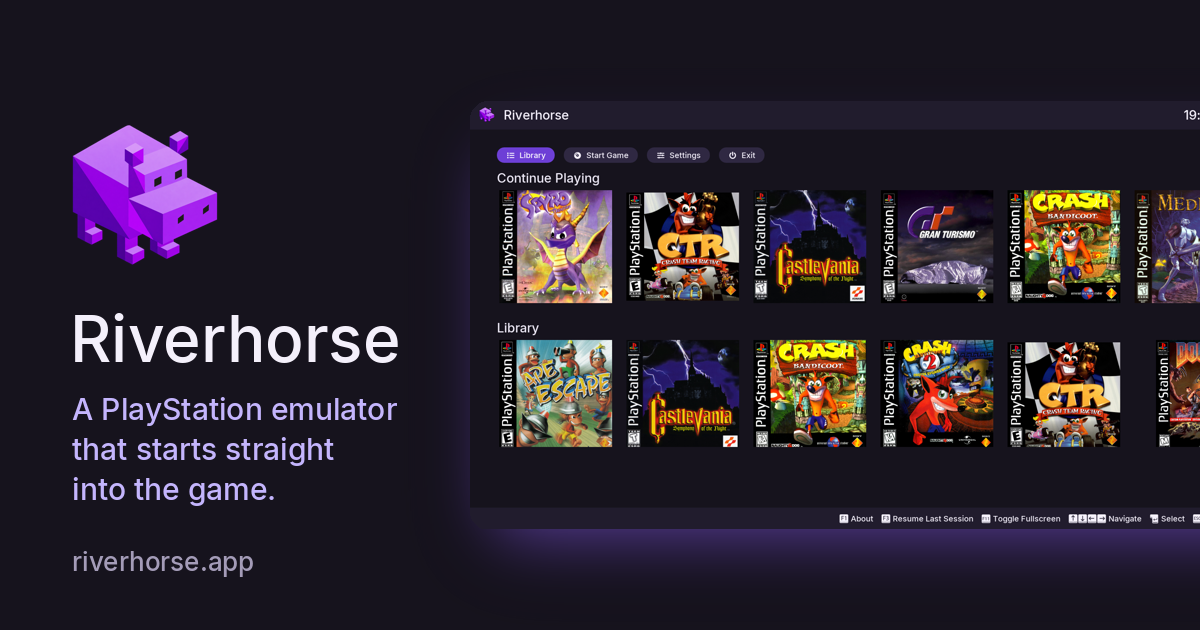
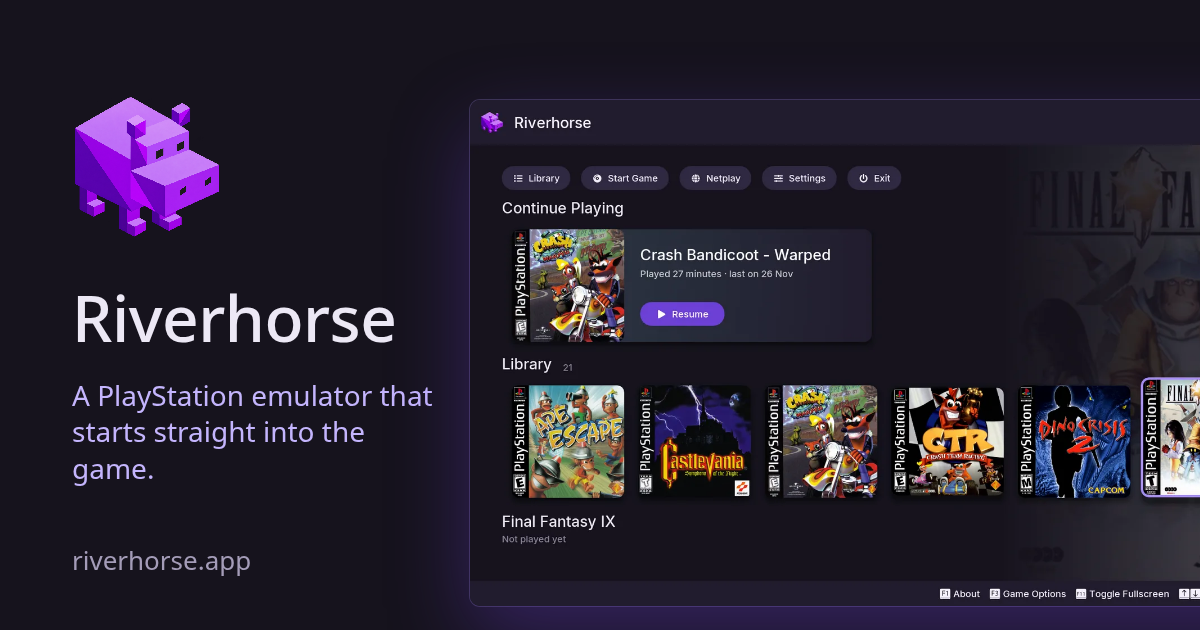
Website: download statistics, stat cards on the home page and a new link preview
A download statistics page lists GitHub downloads per platform and per
release, read live from GitHub when it opens. The home page shows the latest
version, the download count and the licence as cards; the version and count
come from GitHub too, so they change as soon as a release is published. The
link preview image uses the current Big Picture home screen.

diff --git a/site/src/lib/downloads.ts b/site/src/lib/downloads.ts
@@ -1,0 +1,89 @@
+export interface ReleaseAsset {
+	name: string;
+	download_count: number;
+}
+
+export interface Release {
+	tag_name: string;
+	published_at: string;
+	draft: boolean;
+	prerelease: boolean;
+	assets: ReleaseAsset[];
+}
+
+export const RELEASES_API = 'https://api.github.com/repos/thenotoriousfox/riverhorse/releases?per_page=100';
+
+const PLATFORMS: {name: string; matches: (file: string) => boolean}[] = [
+	{name: 'Linux (AppImage)', matches: file => file.endsWith('.AppImage')},
+	{name: 'Linux (Flatpak)', matches: file => file.endsWith('.flatpak')},
+	{name: 'Windows', matches: file => file.startsWith('riverhorse-windows-') && file.endsWith('-release.zip')},
+	{name: 'macOS', matches: file => file.startsWith('riverhorse-mac-')},
+	{name: 'RetroArch core', matches: file => file.startsWith('riverhorse_libretro-')},
+];
+
+export const PLATFORM_NAMES = PLATFORMS.map(platform => platform.name);
+
+export interface ReleaseDownloads {
+	tag: string;
+	date: string;
+	total: number;
+	byPlatform: number[];
+}
+
+export interface DownloadSummary {
+	total: number;
+	byPlatform: number[];
+	releases: ReleaseDownloads[];
+}
+
+export function summariseDownloads(releases: Release[]): DownloadSummary {
+	const rows = releases
+		.filter(release => !release.draft && !release.prerelease && /^v\d/.test(release.tag_name))
+		.sort((a, b) => b.published_at.localeCompare(a.published_at))
+		.map(release => {
+			const byPlatform = PLATFORMS.map(platform =>
+				release.assets.filter(asset => platform.matches(asset.name)).reduce((sum, asset) => sum + asset.download_count, 0));
+			return {
+				tag: release.tag_name,
+				date: release.published_at.slice(0, 10),
+				total: byPlatform.reduce((sum, count) => sum + count, 0),
+				byPlatform,
+			};
+		});
+
+	return {
+		total: rows.reduce((sum, row) => sum + row.total, 0),
+		byPlatform: PLATFORMS.map((_, index) => rows.reduce((sum, row) => sum + row.byPlatform[index], 0)),
+		releases: rows,
+	};
+}
+
+const number = (value: number) => value.toLocaleString('en');
+
+export function renderDownloads(summary: DownloadSummary): string {
+	const platformRows = PLATFORM_NAMES.map((name, index) => {
+		const count = summary.byPlatform[index];
+		const share = summary.total ? Math.round((count / summary.total) * 100) : 0;
+		return `<tr><td>${name}</td><td class="num">${number(count)}</td><td class="num">${share}%</td></tr>`;
+	}).join('');
+
+	const releaseRows = summary.releases.map(release =>
+		`<tr><td><a href="https://github.com/thenotoriousfox/riverhorse/releases/tag/${release.tag}">${release.tag}</a></td>`
+		+ `<td>${release.date}</td><td class="num"><strong>${number(release.total)}</strong></td>`
+		+ release.byPlatform.map(count => `<td class="num">${number(count)}</td>`).join('') + '</tr>').join('');
+
+	return `<p class="stat-total"><strong>${number(summary.total)}</strong> downloads across ${summary.releases.length} releases</p>`
+		+ `<h2>By platform</h2><table><thead><tr><th>Platform</th><th class="num">Downloads</th><th class="num">Share</th></tr></thead><tbody>${platformRows}</tbody></table>`
+		+ `<h2>By release</h2><table><thead><tr><th>Release</th><th>Date</th><th class="num">Total</th>`
+		+ PLATFORM_NAMES.map(name => `<th class="num">${name}</th>`).join('')
+		+ `</tr></thead><tbody>${releaseRows}</tbody></table>`;
+}
+
+export async function fetchDownloadSummary(): Promise<DownloadSummary | null> {
+	try {
+		const response = await fetch(RELEASES_API, {headers: {Accept: 'application/vnd.github+json'}});
+		return response.ok ? summariseDownloads(await response.json()) : null;
+	} catch {
+		return null;
+	}
+}

diff --git a/site/src/styles.css b/site/src/styles.css
@@ -320,3 +320,25 @@ footer p { margin: 0.4rem 0; }
   #games td:first-child { font-weight: 600; }
   #games tr[hidden] { display: none; }
 }
+
+.stat-total { font-size: 1.15rem; color: var(--muted); }
+.stat-total strong { font-size: 2.4rem; color: var(--text); margin-right: 0.4rem; }
+.num { text-align: right; font-variant-numeric: tabular-nums; }
+
+.stats { display: flex; justify-content: center; gap: 0.75rem; margin-top: 2rem; }
+.stat {
+  display: flex; flex-direction: column; align-items: center; gap: 0.15rem;
+  min-width: 11rem; padding: 0.9rem 1.4rem;
+  background: var(--surface); border: 1px solid var(--line); border-radius: 12px;
+  color: var(--muted); text-decoration: none; font-size: 0.9rem;
+  transition: border-color 0.15s, background 0.15s;
+}
+.stat strong { color: var(--text); font-size: 1.9rem; font-weight: 700; line-height: 1.1; font-variant-numeric: tabular-nums; }
+.stat:hover { border-color: var(--accent); background: var(--surface-light); color: var(--text); }
+.stat[hidden] { display: none; }
+#download-stat strong { color: var(--accent-text); }
+@media (max-width: 600px) {
+  .stats { gap: 0.4rem; }
+  .stat { min-width: 0; flex: 1 1 0; padding: 0.6rem 0.4rem; font-size: 0.72rem; text-align: center; }
+  .stat strong { font-size: 1.3rem; }
+}
